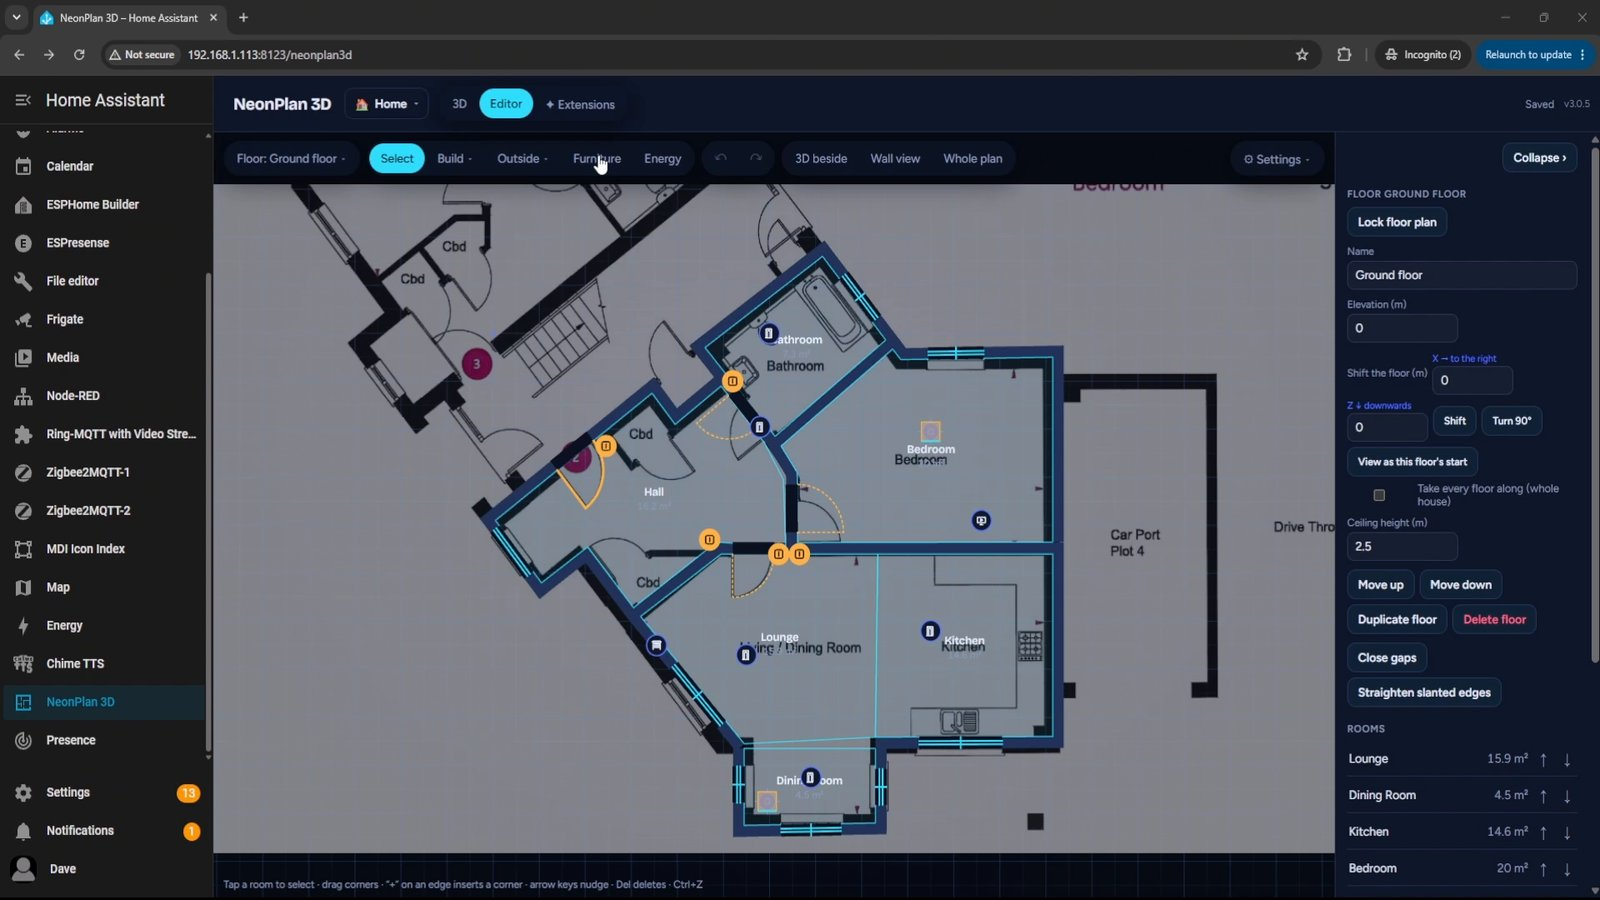
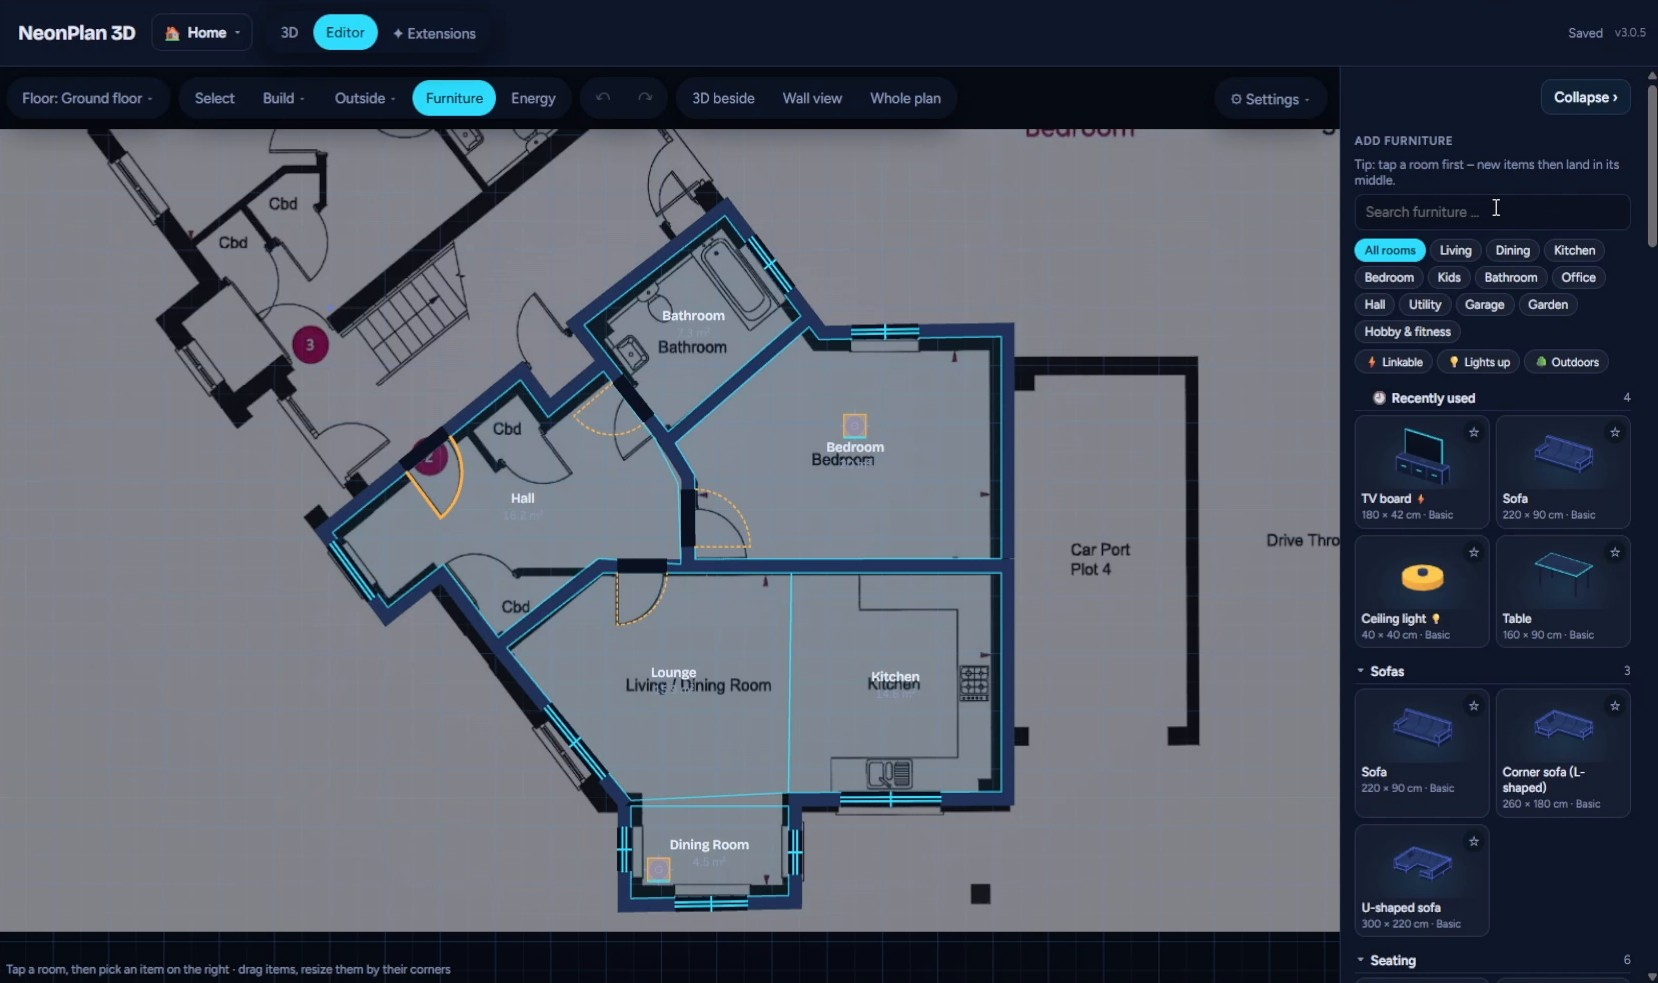
Fix lock floor plan, furniture and light switch screenshots
Claude-Session: https://claude.ai/code/session_01WJYJPzWppYSGrsMDM5gfMN

diff --git a/README.md b/README.md
@@ -161,7 +161,7 @@ Devices are your real Home Assistant entities, such as switches, lights, covers 
 
 When you add and move devices or furniture, it's easy to drag a wall or room by accident. **Undo** only works while you stay in the editor. If you switch to 3D and come back, the undo history is gone.
 
-Click **Lock floor plan** (in the floor panel, or right-click) so walls and rooms stay put.
+Right-click a room and choose **Lock floor plan** (it's also a button in the floor panel), so walls and rooms stay put.
 
 ![Lock floor plan](images/13-lock-floor-plan.jpg)
 
